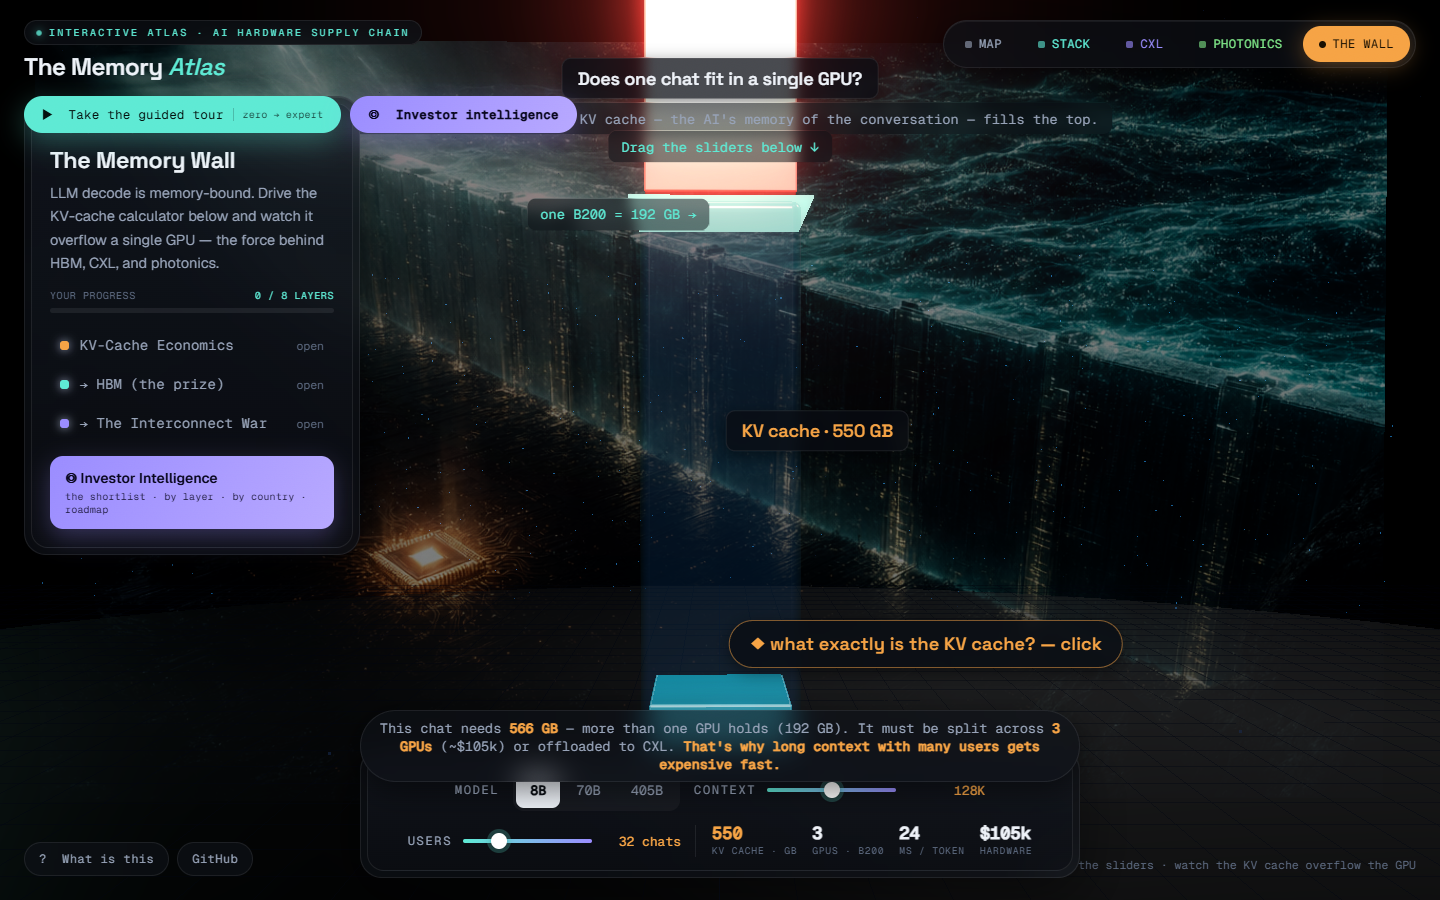
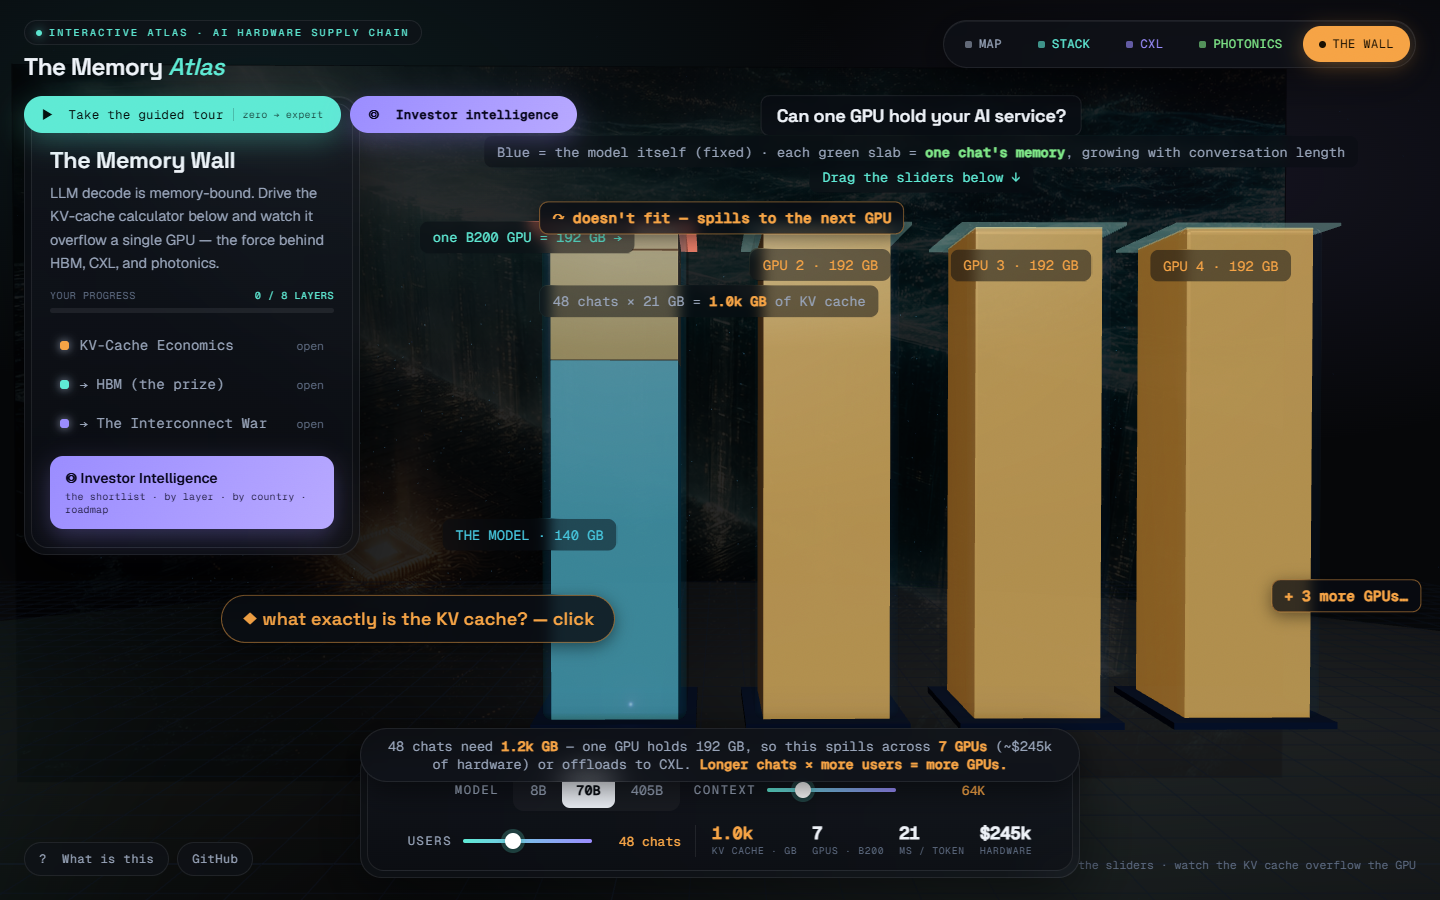
Performance overhaul + intuitive KV-cache visualiser (v1.2.0)
Perf: drop EffectComposer/UnrealBloom (direct render, real MSAA, ~half the
GPU work), adaptive 30/12/7fps frame budget, pixelRatio 1.25,
high-performance context, pooled meshes/labels in the KV visualiser.

Wall: one tank = one GPU; blue = the model, each green slab = one chat's
KV cache; overflow pours into ghost GPU tanks with live GPU count + cost;
camera reframes the row; fixed glass depthWrite occluding the fills.

diff --git a/index.html b/index.html
@@ -547,9 +547,6 @@
 import * as THREE from 'three';
 import {OrbitControls} from 'three/addons/controls/OrbitControls.js';
 import {CSS2DRenderer,CSS2DObject} from 'three/addons/renderers/CSS2DRenderer.js';
-import {EffectComposer} from 'three/addons/postprocessing/EffectComposer.js';
-import {RenderPass} from 'three/addons/postprocessing/RenderPass.js';
-import {UnrealBloomPass} from 'three/addons/postprocessing/UnrealBloomPass.js';
 import {RoomEnvironment} from 'three/addons/environments/RoomEnvironment.js';
 import {RoundedBoxGeometry} from 'three/addons/geometries/RoundedBoxGeometry.js';
 
@@ -778,9 +775,9 @@ scene.fog=new THREE.FogExp2(0x060709,0.0075);
 const camera=new THREE.PerspectiveCamera(44,W()/H(),0.1,500);
 camera.position.set(17,11,26);
 
-const renderer=new THREE.WebGLRenderer({antialias:true,alpha:true});
+const renderer=new THREE.WebGLRenderer({antialias:true,alpha:true,powerPreference:'high-performance'});
 renderer.setSize(W(),H());
-renderer.setPixelRatio(Math.min(window.devicePixelRatio,1.4));
+renderer.setPixelRatio(Math.min(window.devicePixelRatio,1.25));
 renderer.toneMapping=THREE.ACESFilmicToneMapping;
 renderer.toneMappingExposure=1.0;
 appEl.appendChild(renderer.domElement);
@@ -795,10 +792,10 @@ const lr=labelRenderer.domElement;
 lr.style.position='absolute';lr.style.top='0';lr.style.left='0';lr.style.pointerEvents='none';
 appEl.appendChild(lr);
 
-const composer=new EffectComposer(renderer);
-composer.addPass(new RenderPass(scene,camera));
-const bloom=new UnrealBloomPass(new THREE.Vector2(W(),H()),0.26,0.75,0.5);
-composer.addPass(bloom);
+// No post-processing: bloom (EffectComposer + UnrealBloomPass) was the single
+// biggest GPU cost and it defeated MSAA. Direct rendering = real antialiasing,
+// roughly half the GPU work per frame; the glow comes from emissive materials,
+// halos and additive particles instead.
 
 // IMPORTANT: controls + raycasting bound to the CANVAS (works on file://)
 const controls=new OrbitControls(camera,renderer.domElement);
@@ -1191,7 +1188,7 @@ function buildMap(){
   // nodes — premium rounded-cube modules with wireframe + glow ring + halo
   MAPNODES.forEach(n=>{
     const s=n.r*1.3;
-    const core=new THREE.Mesh(new RoundedBoxGeometry(s,s,s,6,s*0.18),solidMat(n.col,0.16));
+    const core=new THREE.Mesh(new RoundedBoxGeometry(s,s,s,6,s*0.18),solidMat(n.col,0.24)); // slightly hotter emissive now that bloom is gone
     core.position.set(...n.pos);core.rotation.set(0.42,0.6,0);g.add(core);
     core.userData.spin=0.14;
     core.add(new THREE.LineSegments(new THREE.EdgesGeometry(core.geometry,32),new THREE.LineBasicMaterial({color:new THREE.Color(n.col),transparent:true,opacity:0.55})));
@@ -1370,58 +1367,119 @@ function buildAI(){
     const ocean=new THREE.Points(pg,new THREE.PointsMaterial({color:0x4a8fcf,size:0.1,transparent:true,opacity:0.32,blending:THREE.AdditiveBlending,depthWrite:false}));
     g.add(ocean);g.userData.ocean={pts:ocean,seeds};}
 
-  // === THE MEMORY TANK — one GPU's HBM (192 GB). Weights fill the bottom, KV cache fills the top. ===
+  // === THE MEMORY TANKS — GPU 1 is the hero; ghost GPUs appear when the work spills over. ===
+  // Intuition model: the blue block is THE MODEL (fixed). Every chat adds ONE
+  // green slab whose height = that conversation's KV cache. Slabs stack until
+  // the 192 GB tank is full — then the excess pours into more (ghost) GPUs.
   const TANKH=13,capGB=192,scale=TANKH/capGB,baseY=-6.5,ceilY=baseY+TANKH;
   const shellGeo=new RoundedBoxGeometry(3.8,TANKH,3.8,4,0.24);
-  const shell=new THREE.Mesh(shellGeo,new THREE.MeshPhysicalMaterial({color:0x1a2c4a,metalness:0.1,roughness:0.25,transparent:true,opacity:0.26,clearcoat:1,envMapIntensity:1.4,emissive:0x5eead4,emissiveIntensity:0.03}));
-  shell.position.set(0,baseY+TANKH/2,0);g.add(shell);
-  shell.add(new THREE.LineSegments(new THREE.EdgesGeometry(shellGeo,30),new THREE.LineBasicMaterial({color:0x5eead4,transparent:true,opacity:0.9})));
-  pick(shell,'kv',()=>openNode('kv_econ'));
-  const rim=new THREE.Mesh(new THREE.BoxGeometry(4.3,0.08,4.3),new THREE.MeshBasicMaterial({color:0x5eead4}));rim.position.set(0,ceilY,0);g.add(rim);
-  const base=new THREE.Mesh(new THREE.BoxGeometry(4.3,0.18,4.3),solidMat('#16243c',0.05));base.position.set(0,baseY-0.1,0);g.add(base);
+  function makeTank(x,ghost){
+    const t=new THREE.Group();t.position.set(x,0,0);
+    // depthWrite:false + late renderOrder: glass must never depth-occlude the fills inside it
+    const shell=new THREE.Mesh(shellGeo,new THREE.MeshPhysicalMaterial({color:0x1a2c4a,metalness:0.1,roughness:0.25,transparent:true,opacity:ghost?0.14:0.34,clearcoat:1,envMapIntensity:1.4,emissive:0x5eead4,emissiveIntensity:ghost?0.02:0.05,depthWrite:false}));
+    shell.renderOrder=5;
+    shell.position.set(0,baseY+TANKH/2,0);t.add(shell);
+    shell.add(new THREE.LineSegments(new THREE.EdgesGeometry(shellGeo,30),new THREE.LineBasicMaterial({color:0x9ffbe9,transparent:true,opacity:ghost?0.4:1})));
+    const rim=new THREE.Mesh(new THREE.BoxGeometry(4.3,0.08,4.3),new THREE.MeshBasicMaterial({color:0x5eead4,transparent:ghost,opacity:ghost?0.4:1}));rim.position.set(0,ceilY,0);t.add(rim);
+    const base=new THREE.Mesh(new THREE.BoxGeometry(4.3,0.18,4.3),solidMat('#16243c',0.05));base.position.set(0,baseY-0.1,0);t.add(base);
+    t.userData.shell=shell;t.userData.rim=rim;
+    return t;
+  }
+  const hero=makeTank(0,false);g.add(hero);
+  pick(hero.userData.shell,'kv',()=>openNode('kv_econ'));
+  const ghosts=[],gFills=[],gLbls=[];
+  const unitBox=new THREE.BoxGeometry(1,1,1);
+  const matW=solidMat('#46c8e0',0.12);matW.transparent=true;matW.opacity=0.92;
+  const matKV=solidMat('#7ee787',0.3);matKV.transparent=true;matKV.opacity=0.95;
+  const matHot=solidMat('#f6a345',0.32);matHot.transparent=true;matHot.opacity=0.95;
+  for(let i=0;i<3;i++){
+    const gt=makeTank(5.6*(i+1),true);gt.visible=false;g.add(gt);ghosts.push(gt);
+    const fill=new THREE.Mesh(unitBox,matHot);fill.visible=false;g.add(fill);gFills.push(fill);
+    const gl=label('','faint');gl.visible=false;gl.element.style.color='#f6a345';g.add(gl);gLbls.push(gl);
+  }
+  const wMesh=new THREE.Mesh(unitBox,matW);g.add(wMesh);
+  const lblW=label('','faint');lblW.element.style.transform='translate(-100%,-50%)';lblW.element.style.color='#46c8e0';g.add(lblW);
+  const lblKV=label('','faint');lblKV.element.style.transform='translate(0,-50%)';g.add(lblKV);
+  const spillLbl=label('↷ doesn\'t fit — spills to the next GPU','heat');spillLbl.visible=false;spillLbl.position.set(2.85,ceilY+0.55,0);spillLbl.element.style.transform='translate(0,-50%)';g.add(spillLbl);
+  const morLbl=label('','heat');morLbl.visible=false;morLbl.position.set(20.4,baseY+3,0);g.add(morLbl);
   // headline + how-to
-  const tTitle=label('Does one chat fit in a single GPU?','title');tTitle.position.set(0,ceilY+3.4,0);tTitle.element.style.transform='translate(-50%,-50%)';tTitle.element.style.fontSize='18px';g.add(tTitle);
-  const tSub=label('Weights fill the bottom. The KV cache — the AI\'s memory of the conversation — fills the top.','faint');tSub.position.set(0,ceilY+2.4,0);tSub.element.style.transform='translate(-50%,-50%)';g.add(tSub);
+  const tTitle=label('Can one GPU hold your AI service?','title');tTitle.position.set(0,ceilY+3.4,0);tTitle.element.style.transform='translate(-50%,-50%)';tTitle.element.style.fontSize='18px';g.add(tTitle);
+  const tSub=label('Blue = the model itself (fixed) · each green slab = <b style="color:#7ee787">one chat\'s memory</b>, growing with conversation length','faint');tSub.position.set(0,ceilY+2.4,0);tSub.element.style.transform='translate(-50%,-50%)';g.add(tSub);
   const tSub2=label('Drag the sliders below ↓','faint');tSub2.position.set(0,ceilY+1.7,0);tSub2.element.style.transform='translate(-50%,-50%)';tSub2.element.style.color='#5eead4';g.add(tSub2);
-  const ceilLab=label('one B200 = 192 GB →','faint');ceilLab.position.set(-2.55,ceilY,0);ceilLab.element.style.transform='translate(-100%,-50%)';ceilLab.element.style.color='#5eead4';g.add(ceilLab);
-  const learn=label('◆ what exactly is the KV cache? — click','node',()=>openNode('kv_econ'));learn.position.set(5.2,baseY+2.2,0);learn.element.style.borderColor='rgba(246,163,69,.5)';learn.element.style.color='#f6a345';g.add(learn);
-  groups.ai.userData.tank={baseY,ceilY,scale,capGB,TANKH};
+  const ceilLab=label('one B200 GPU = 192 GB →','faint');ceilLab.position.set(-2.55,ceilY,0);ceilLab.element.style.transform='translate(-100%,-50%)';ceilLab.element.style.color='#5eead4';g.add(ceilLab);
+  const learn=label('◆ what exactly is the KV cache? — click','node',()=>openNode('kv_econ'));learn.position.set(-5.6,baseY+2.4,0);learn.element.style.borderColor='rgba(246,163,69,.5)';learn.element.style.color='#f6a345';g.add(learn);
+  g.userData.kvui={baseY,ceilY,scale,capGB,TANKH,wMesh,lblW,lblKV,slabs:[],unitBox,matKV,matHot,ghosts,gFills,gLbls,morLbl,spillLbl,rim:hero.userData.rim,heads:[tTitle,tSub,tSub2],lastX:null};
   scene.add(g);
   updateKV();
-  flyTo(0,1,28, 0,0.6,0, 1.2);
+  const cx=g.userData.kvui.lastX||0;
+  flyTo(cx,1,28, cx,0.6,0, 1.2);
 }
 function updateKV(){
-  const g=groups.ai;if(!g)return;const t=g.userData.tank;if(!t)return;
-  [...g.children].filter(c=>c.userData.fill).forEach(c=>{g.remove(c);if(c.geometry)c.geometry.dispose();if(c.material)c.material.dispose();c.traverse(ch=>{if(ch.isCSS2DObject&&ch.element.parentNode)ch.element.parentNode.removeChild(ch.element);});});
-  const m=MODELS[kv.model];const val=kvGB(m,kv.ctx,kv.batch);
-  const wGB=m.W,totalGB=wGB+val,baseY=t.baseY,ceilY=t.ceilY,scale=t.scale,capGB=t.capGB,TANKH=t.TANKH;
+  const g=groups.ai;if(!g)return;const ui=g.userData.kvui;if(!ui)return;
+  const {baseY,ceilY,scale,capGB,TANKH}=ui;
+  const m=MODELS[kv.model];
+  const kvPer=kvGB(m,kv.ctx,1);                 // GB of KV cache per chat
+  const val=kvPer*kv.batch,wGB=m.W,totalGB=wGB+val;
   const overflow=totalGB>capGB;
-  const gw=fmt=>fmt<1000?fmt.toFixed(0):(fmt/1000).toFixed(1)+'k';
-  // weights fill (bottom)
-  const wH=Math.min(wGB,capGB)*scale;
-  const wB=new THREE.Mesh(new RoundedBoxGeometry(3.4,Math.max(wH,0.05),3.4,2,0.06),solidMat('#46c8e0',0.12));wB.position.set(0,baseY+wH/2,0);wB.material.transparent=true;wB.material.opacity=0.92;wB.userData.fill=true;g.add(wB);
-  const wl=label(`weights · ${wGB} GB`,'faint');wl.position.set(-2.45,baseY+Math.max(wH,0.6)/2,0);wl.element.style.transform='translate(-100%,-50%)';wl.element.style.color='#46c8e0';wB.add(wl);
-  // KV cache fill (on top, bounded by the tank)
-  const room=Math.max(0,ceilY-(baseY+wH));
-  const kvIn=Math.min(val*scale,room);
-  const kB=new THREE.Mesh(new RoundedBoxGeometry(3.4,Math.max(kvIn,0.05),3.4,2,0.06),solidMat(overflow?'#f6a345':'#7ee787',0.3));kB.position.set(0,baseY+wH+kvIn/2,0);kB.material.transparent=true;kB.material.opacity=0.95;kB.userData.fill=true;g.add(kB);
-  const kl=label(`KV cache · ${gw(val)} GB`,'title');kl.position.set(2.45,baseY+wH+Math.max(kvIn,0.7)/2,0);kl.element.style.transform='translate(0,-50%)';kl.element.style.color=overflow?'#f6a345':'#7ee787';kB.add(kl);
-  // overflow — spills out over the rim (bounded so it never flies off-screen)
-  if(overflow){
-    const overGB=totalGB-capGB;const overH=Math.min(overGB*scale,TANKH*1.05);
-    const oB=new THREE.Mesh(new RoundedBoxGeometry(3.6,Math.max(overH,0.12),3.6,2,0.06),solidMat('#ff6b5e',0.42));oB.position.set(0,ceilY+overH/2+0.18,0);oB.material.transparent=true;oB.material.opacity=0.9;oB.userData.fill=true;g.add(oB);
-    const ol=label(`↑ over by ${gw(overGB)} GB — won't fit!`,'heat');ol.position.set(2.45,ceilY+overH/2+0.18,0);ol.element.style.transform='translate(0,-50%)';oB.add(ol);
+  const gpusN=Math.max(1,Math.ceil(totalGB/capGB));
+  const f1=x=>x<10?(Math.round(x*10)/10).toString():x<1000?Math.round(x).toString():(x/1000).toFixed(1)+'k';
+  // — the model (blue, fixed) —
+  const wH=Math.min(wGB*scale,TANKH);
+  ui.wMesh.scale.set(3.35,Math.max(wH,0.06),3.35);
+  ui.wMesh.position.set(0,baseY+Math.max(wH,0.06)/2,0);
+  ui.lblW.element.innerHTML=`THE MODEL · ${wGB} GB`;
+  ui.lblW.position.set(-2.5,baseY+Math.max(Math.min(wH,TANKH)/2,0.35),0);
+  // — one slab per chat, stacked until the tank is full (pooled meshes, no realloc) —
+  const chunk=Math.max(1,Math.ceil(kv.batch/28));   // ≤28 slabs on screen; 1 slab = `chunk` chats
+  const nSlabs=Math.ceil(kv.batch/chunk);
+  const slabH=kvPer*chunk*scale;
+  let y=baseY+wH,shown=0;
+  for(let i=0;i<nSlabs&&y<ceilY-0.03;i++){
+    const h=Math.min(slabH,ceilY-y);
+    let mesh=ui.slabs[shown];
+    if(!mesh){mesh=new THREE.Mesh(ui.unitBox,ui.matKV);g.add(mesh);ui.slabs.push(mesh);}
+    mesh.visible=true;
+    mesh.material=overflow?ui.matHot:ui.matKV;
+    mesh.scale.set(3.35,Math.max(h-0.05,0.04),3.35);
+    mesh.position.set(0,y+h/2,0);
+    y+=slabH;shown++;
   }
+  for(let i=shown;i<ui.slabs.length;i++)ui.slabs[i].visible=false;
+  const stackTop=Math.min(baseY+wH+val*scale,ceilY);
+  ui.lblKV.element.innerHTML=`${kv.batch} chat${kv.batch>1?'s':''} × ${f1(kvPer)} GB = <b style="color:${overflow?'#f6a345':'#7ee787'}">${f1(val)} GB</b> of KV cache`;
+  ui.lblKV.position.set(2.5,Math.min((baseY+wH+stackTop)/2,ceilY-0.4),0);
+  // — spillover pours into ghost GPUs on the right —
+  let rem=totalGB-capGB;
+  ui.ghosts.forEach((gt,i)=>{
+    const on=rem>0;
+    gt.visible=on;ui.gFills[i].visible=on;ui.gLbls[i].visible=on;
+    if(on){
+      const gb=Math.min(rem,capGB),h=gb*scale;
+      ui.gFills[i].scale.set(3.35,Math.max(h,0.06),3.35);
+      ui.gFills[i].position.set(5.6*(i+1),baseY+h/2,0);
+      ui.gLbls[i].element.innerHTML=`GPU ${i+2} · ${f1(gb)} GB`;
+      ui.gLbls[i].position.set(5.6*(i+1),ceilY-0.75,0);
+    }
+    rem-=capGB;
+  });
+  ui.morLbl.visible=gpusN>4;
+  if(gpusN>4)ui.morLbl.element.innerHTML=`+ ${gpusN-4} more GPUs…`;
+  ui.spillLbl.visible=overflow;
+  ui.rim.material.color.set(overflow?0xff6b5e:0x5eead4);
+  // recenter the camera on the row of GPUs (skip the tween on first paint)
+  const wantX=Math.min(gpusN-1,3)*5.6/2;
+  ui.heads.forEach(h=>{h.position.x=wantX;});   // headlines track the camera so they never drift under the fixed UI
+  if(ui.lastX==null)ui.lastX=wantX;
+  else if(ui.lastX!==wantX){ui.lastX=wantX;tweenObj(controls.target,{x:wantX},0.9);tweenObj(camera.position,{x:wantX,z:overflow?31:28},0.9);}
   // live consequences
-  const gpusN=Math.max(1,Math.ceil(totalGB/192));
-  const msTok=totalGB/(gpusN*8);const tokSec=Math.round(1000/msTok);const costK=gpusN*35;
+  const msTok=totalGB/(gpusN*8);const costK=gpusN*35;
   const set=(id,v)=>{const e=document.getElementById(id);if(e)e.textContent=v;};
-  const out=document.getElementById('kvOut');if(out){out.textContent=gw(val);out.style.color=overflow?'#f6a345':'#7ee787';}
+  const out=document.getElementById('kvOut');if(out){out.textContent=f1(val);out.style.color=overflow?'#f6a345':'#7ee787';}
   set('kvGpus',gpusN);set('kvSpeed',msTok<10?msTok.toFixed(1):Math.round(msTok));set('kvCost',costK<1000?('$'+costK+'k'):('$'+(costK/1000).toFixed(2)+'M'));
   const note=document.getElementById('kvNote');
   if(note){note.classList.toggle('ok',!overflow);
-    if(overflow)note.innerHTML=`This chat needs <b>${gw(totalGB)} GB</b> — more than one GPU holds (192 GB). It must be split across <b>${gpusN} GPUs</b> (~${costK<1000?'$'+costK+'k':'$'+(costK/1000).toFixed(1)+'M'}) or offloaded to CXL. <b>That's why long context with many users gets expensive fast.</b>`;
-    else note.innerHTML=`Fits one GPU: weights (${wGB} GB) + KV cache (${val.toFixed(0)} GB) = <b>${totalGB.toFixed(0)} of 192 GB</b>. Now push <b>context</b> or <b>users</b> up and watch the tank fill.`;
+    if(overflow)note.innerHTML=`${kv.batch} chat${kv.batch>1?'s':''} need <b>${f1(totalGB)} GB</b> — one GPU holds 192 GB, so this spills across <b>${gpusN} GPUs</b> (~${costK<1000?'$'+costK+'k':'$'+(costK/1000).toFixed(1)+'M'} of hardware) or offloads to CXL. <b>Longer chats × more users = more GPUs.</b>`;
+    else note.innerHTML=`Fits: the model (${wGB} GB) + ${kv.batch} chat${kv.batch>1?'s':''} (${f1(val)} GB) = <b>${f1(totalGB)} of 192 GB</b>. Push <b>context</b> or <b>users</b> up and watch it spill into more GPUs.`;
   }
 }
 
@@ -1543,12 +1601,26 @@ tourBtn.addEventListener('click',startTour);
    ANIMATE
    ========================================================================= */
 let __frames=0,__lastErr='';
-function renderOnce(){try{scene.updateMatrixWorld(true);composer.render();labelRenderer.render(scene,camera);}catch(e){__lastErr=e.message;}}
+function renderOnce(){try{scene.updateMatrixWorld(true);renderer.render(scene,camera);labelRenderer.render(scene,camera);}catch(e){__lastErr=e.message;}}
 let __lastRender=0;
+// Adaptive frame budget: ~30fps while the user is interacting or the camera is
+// moving, ~12fps once everything has settled (ambient particle drift doesn't
+// need more), ~7fps behind the welcome overlay. dt-based motion keeps speeds
+// identical at any rate.
+let __lastInteract=performance.now();
+const __mark=()=>{__lastInteract=performance.now();};
+['pointerdown','pointermove','wheel','keydown','touchstart'].forEach(ev=>window.addEventListener(ev,__mark,{passive:true}));
+let __welEl=null;
+function frameBudget(now){
+  __welEl=__welEl||document.getElementById('welcome');
+  if(__welEl&&__welEl.classList.contains('show'))return 140;
+  if(camT.active||tweens.length||now-__lastInteract<2500)return 32;
+  return 83;
+}
 function animate(){
   requestAnimationFrame(animate);
   const now=performance.now();
-  if(now-__lastRender<32)return;   // cap ~30fps — halves GPU load, quiets the fan
+  if(now-__lastRender<frameBudget(now))return;
   __lastRender=now;
   try{
   __frames++;
@@ -1578,11 +1650,11 @@ function animate(){
     if(oc){const a=oc.pts.geometry.attributes.position.array;oc.seeds.forEach((s,i)=>{a[i*3]=s.x+Math.sin(tt*s.sp+s.ph)*0.5;a[i*3+1]=s.y+Math.cos(tt*s.sp*0.7+s.ph)*0.35;});oc.pts.geometry.attributes.position.needsUpdate=true;oc.pts.material.opacity=0.42+Math.sin(tt*0.6)*0.1;}
     groups.ai.rotation.y=Math.sin(tt*0.06)*0.03;
   }
-  composer.render();labelRenderer.render(scene,camera);
+  renderer.render(scene,camera);labelRenderer.render(scene,camera);
   }catch(err){__lastErr=err.message+' @ '+(err.stack||'').split('\n')[1];}
 }
 
-window.addEventListener('resize',()=>{camera.aspect=W()/H();camera.updateProjectionMatrix();renderer.setSize(W(),H());composer.setSize(W(),H());labelRenderer.setSize(W(),H());});
+window.addEventListener('resize',()=>{camera.aspect=W()/H();camera.updateProjectionMatrix();renderer.setSize(W(),H());labelRenderer.setSize(W(),H());});
 
 /* BOOT */
 const lmsg=['Mapping the supply chain…','Stacking HBM dies…','Lighting the waveguides…','Wiring the CXL fabric…','Tracing the bottlenecks…'];

diff --git a/CHANGELOG.md b/CHANGELOG.md
@@ -2,6 +2,35 @@
 
 All notable changes to The Memory Atlas. Versioning: semantic, via git tags.
 
+## [1.2.0] — 2026-07-05
+
+Performance overhaul + an intuitive KV-cache visualiser, from direct user feedback
+("performance is too slow", "the KV cache visualiser is not intuitive").
+
+### Performance
+- Removed post-processing entirely (EffectComposer + UnrealBloomPass) — it was the
+  single biggest GPU cost per frame and it defeated MSAA. The scene now renders
+  directly: real antialiasing, roughly half the GPU work. Glow comes from emissive
+  materials, halos and additive particles (emissives retuned to compensate).
+- Adaptive frame budget: ~30 fps while interacting or the camera is moving,
+  ~12 fps once everything settles, ~7 fps behind the welcome overlay. All motion
+  is dt-based so animation speeds are unchanged. Measured: 29 fps active / 12 idle.
+- `pixelRatio` cap lowered 1.4 → 1.25; `powerPreference: high-performance`.
+- The KV visualiser now pools its meshes, materials and labels — dragging the
+  sliders no longer allocates geometry (the old one rebuilt boxes + labels per tick).
+
+### The Wall — KV visualiser rethought
+- New mental model: **one tank = one GPU (192 GB); blue block = the model (fixed);
+  each green slab = ONE chat's memory (KV cache), growing with conversation length.**
+- When the tank fills, the excess visibly pours into ghost GPU tanks on the right
+  ("GPU 2 · 192 GB", …, "+ N more GPUs…"), the rim turns red, and the camera
+  gently reframes the row — the cost of scale is something you *watch happen*.
+- Headline labels track the camera so they never drift under the fixed UI.
+- Persistent legend ("THE MODEL · x GB", "N chats × y GB = z GB of KV cache") and a
+  rewritten live caption tying it together ("Longer chats × more users = more GPUs").
+- Fixed a transparent-sort bug where the glass tank depth-occluded its own contents
+  (glass is now depthWrite:false with late renderOrder).
+
 ## [1.1.0] — 2026-07-05
 
 The public-launch release: readability, design polish, SEO, and the move to

diff --git a/README.md b/README.md
@@ -22,7 +22,7 @@ Five interlinked **regions** in one continuous 3D world — drag to orbit, click
 | **Stack** | The 8-layer memory hierarchy (Registers → L1/L2 → HBM → DDR5 → CXL → NVMe → Network) as glass slabs — width ∝ capacity, particle speed ∝ bandwidth, chokepoints flagged. |
 | **CXL** | A shared-memory fabric: four servers, a CXL switch, and a pool of memory modules any server can borrow from. Toggle Expansion / Pooling / Sharing. |
 | **Photonics** | Copper vs light: a copper wire whose signal dies mid-way vs a clickable laser firing wavelength-multiplexed light across the fibre. The laser is the bottleneck — click it. |
-| **The Wall** | A live KV-cache calculator rendered as a "memory tank": one GPU's 192 GB, weights filling the bottom, the KV cache filling the top. Push context length or users and watch it overflow — with GPUs-needed, $ cost and ms/token computed live. |
+| **The Wall** | A live KV-cache calculator rendered as GPU "memory tanks": one tank = one GPU's 192 GB. The blue block is the model (fixed); every chat adds one green slab that grows with conversation length. When the tank fills, the excess pours into more GPUs on the right — with GPUs-needed, $ cost and ms/token computed live. |
 
 ![HBM panel — who makes it, metrics, geography](docs/hbm-panel.png)
 
@@ -84,7 +84,7 @@ Everything lives in **`index.html`**: a `<style>` design system, an import map, 
 ### Engineering notes (learned the hard way)
 
 - **Raycasting** binds to the canvas (`renderer.domElement`), not the CSS2D label layer, and calls `camera.updateMatrixWorld()` before every pick — otherwise clicks silently miss when the frame loop is throttled (e.g. on `file://`).
-- **Performance:** frame rate is capped at ~30 fps and `pixelRatio` at 1.4, bloom is tuned low (0.26). This halves GPU load and keeps laptop fans quiet without visibly hurting the aesthetic.
+- **Performance:** no post-processing — bloom (EffectComposer + UnrealBloomPass) was the single biggest GPU cost and it defeated MSAA, so the scene renders directly (real antialiasing, ~half the GPU work); the glow comes from emissive materials, halos and additive particles. Frame rate is adaptive: ~30 fps while interacting or the camera moves, ~12 fps once settled, ~7 fps behind the welcome overlay (all motion is dt-based so speeds don't change). `pixelRatio` is capped at 1.25. The KV visualiser pools its meshes and labels — slider drags never allocate geometry.
 - **Hidden tabs:** `requestAnimationFrame` pauses when a tab is backgrounded; a 350 ms heartbeat keeps the canvas paintable. Don't gate content visibility on CSS entry animations — they also pause.
 - **Materials:** `MeshPhysicalMaterial` `transmission` is too heavy with bloom; clearcoat + a `RoomEnvironment` env-map gets the glass look cheaply.
 - **Logos:** only ~5 of these firms exist in icon CDNs; the rest get deterministic colour-tinted monograms. Don't add a `slug` unless `cdn.simpleicons.org/<slug>` returns 200.